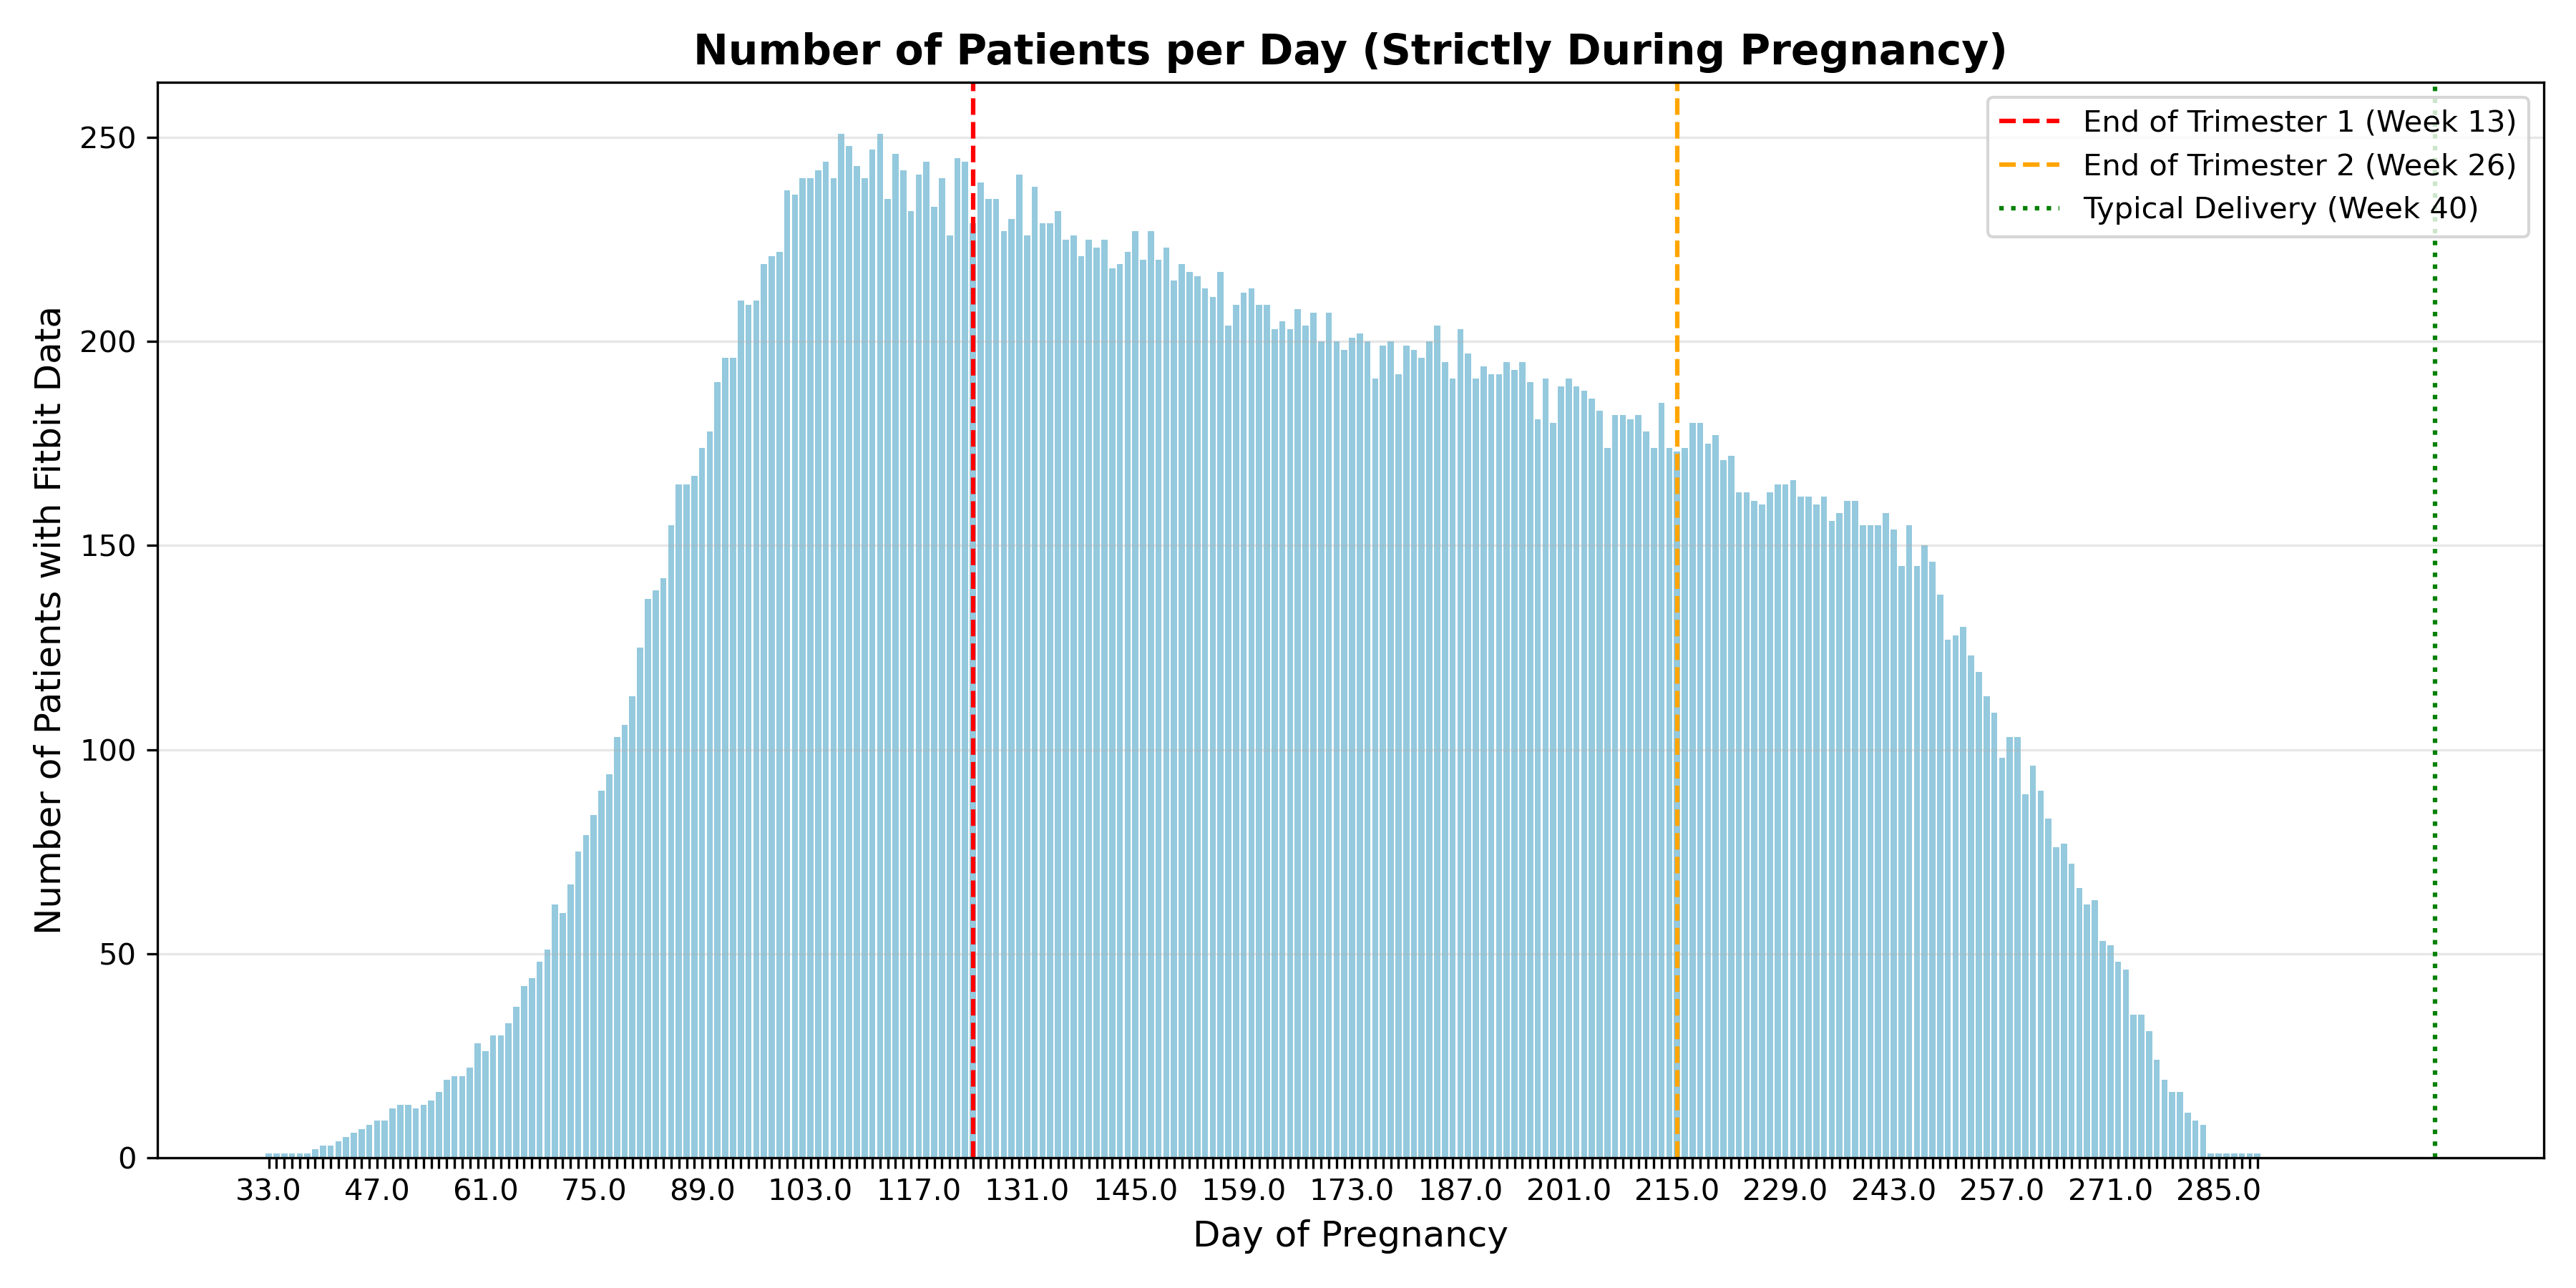
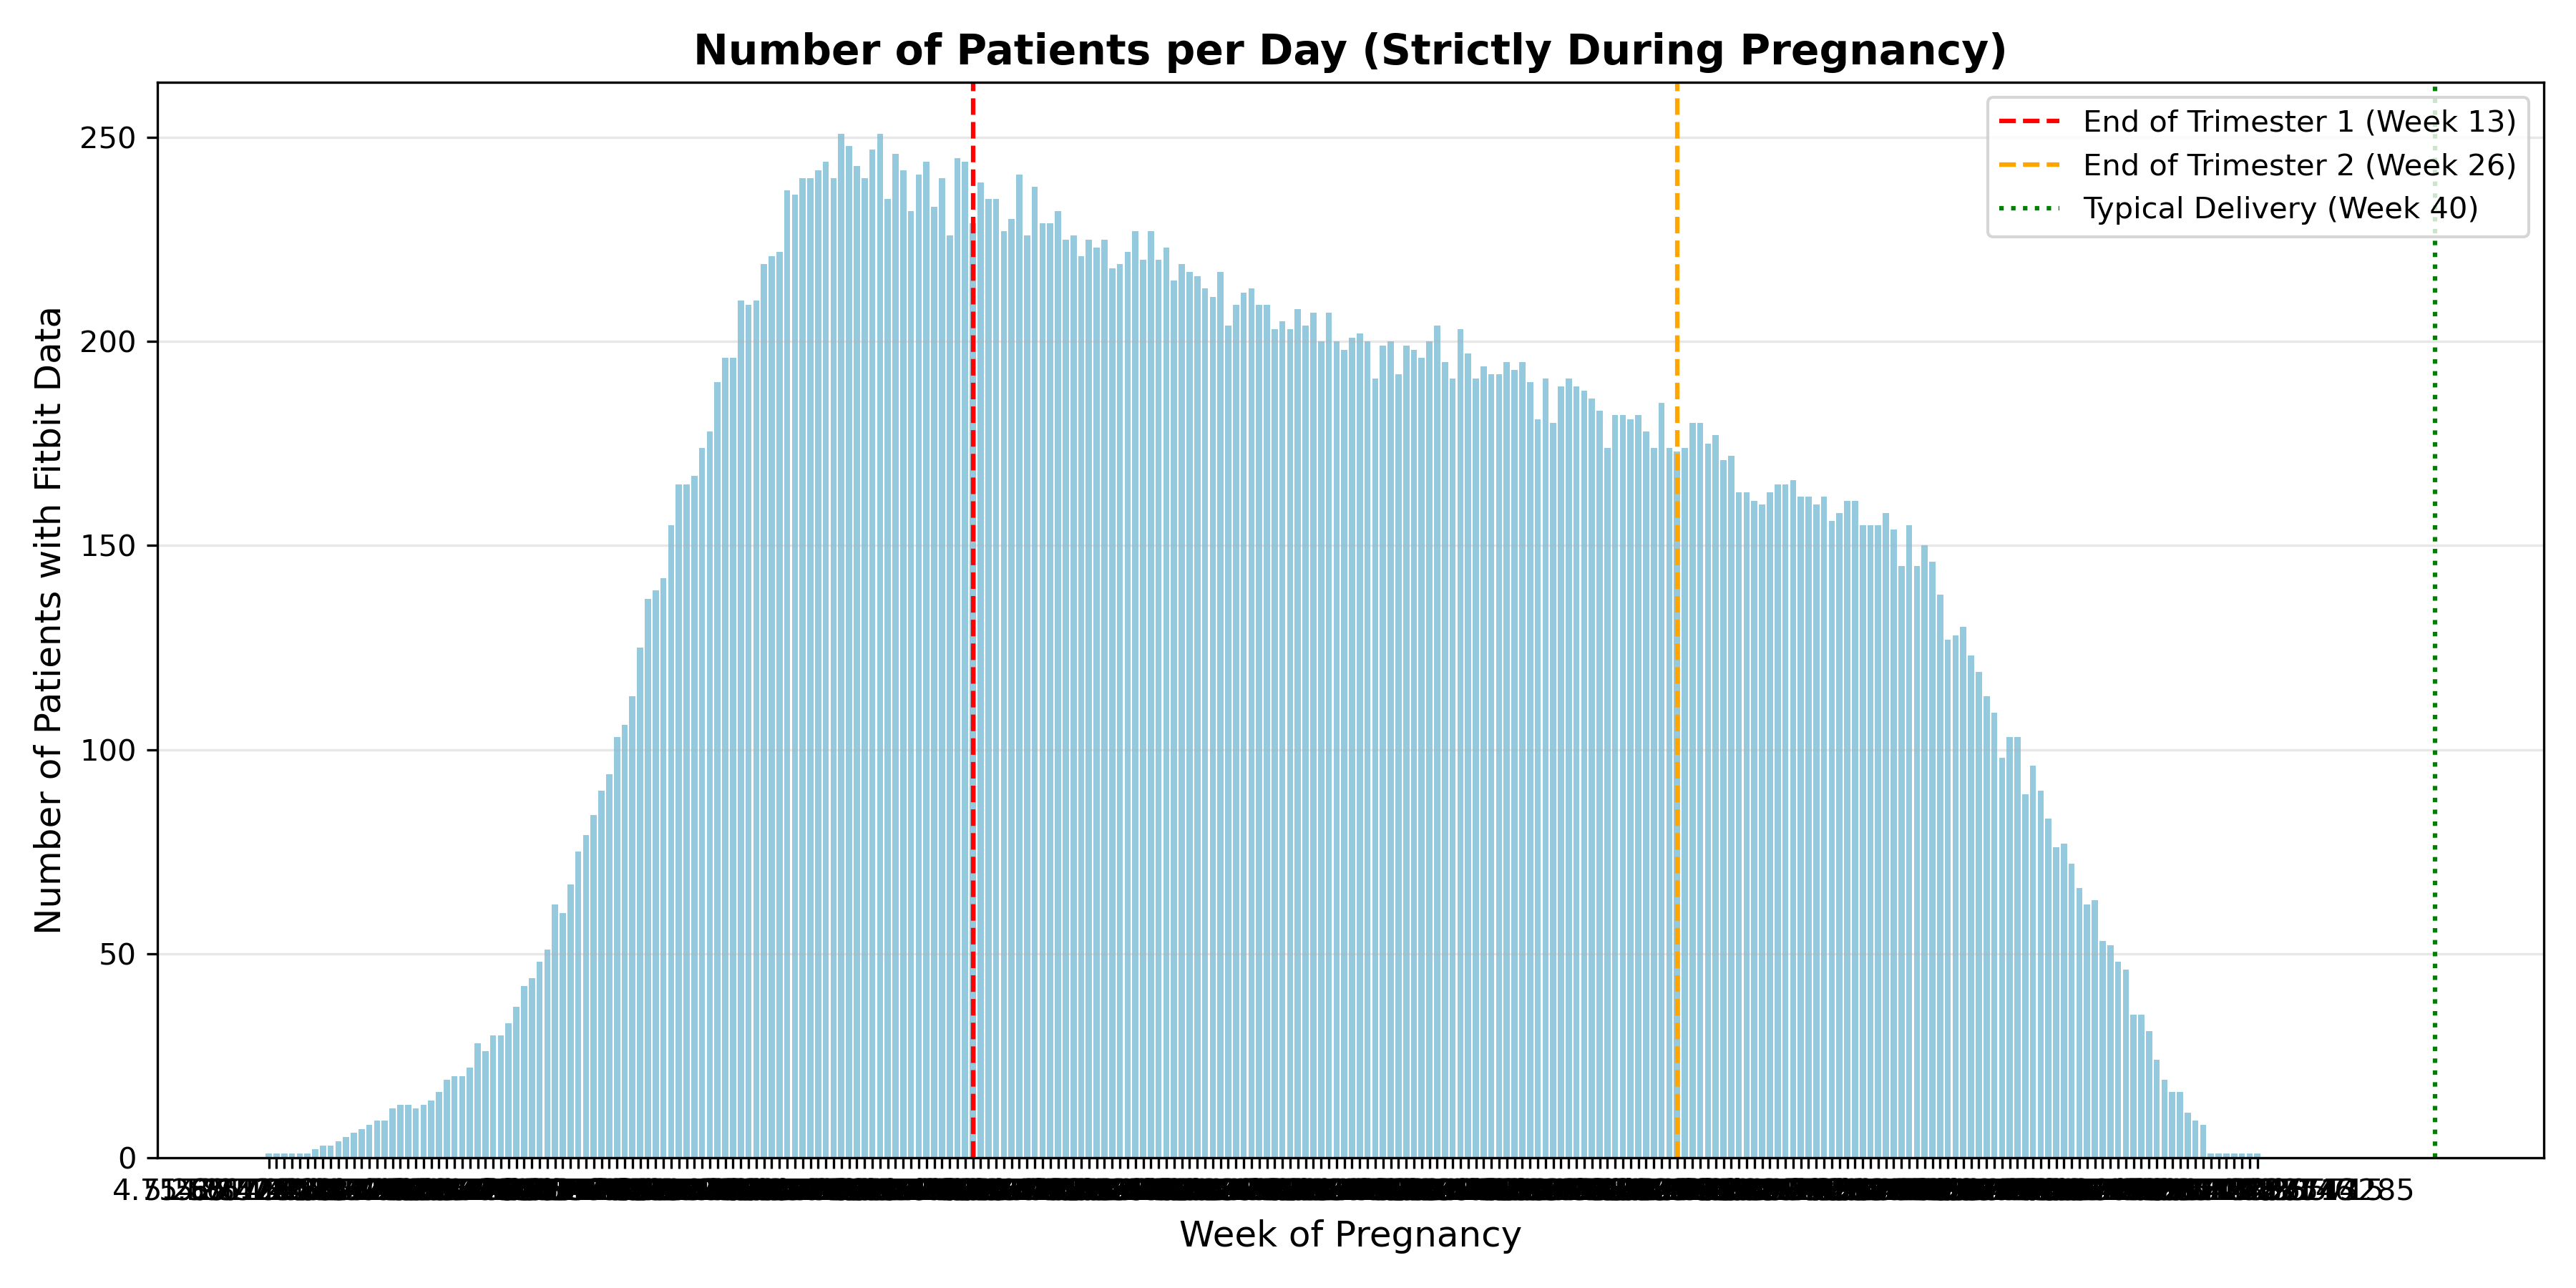
deleted features not present in any patient

Changed region(s): [[0.0311, 0.9022, 0.9333, 0.9956]]

diff --git a/anushas/01_data_cleaning/preprocess_slides_data/preprocess_slides.py b/anushas/01_data_cleaning/preprocess_slides_data/preprocess_slides.py
@@ -62,9 +62,14 @@ def delete_patients(sheet):
     return sheet
 
 # delete the following unnecessary columns: "slide a", "slide b", "slide membrane roll", "not in file"
-# delete the following empty columns:
+# delete all empty columns
 def delete_columns(sheet):
-    sheet = sheet.drop(columns = ["slide a", "slide b", "slide membrane roll", "not in file"])
+    sheet = sheet.drop(columns = [
+        "slide a", "slide b", "slide membrane roll", "not in file", 
+        "retroplacental hemorrhage", "vascular thrombosis", "villous stromal vascular karyorrhexis", "vascular intramural fibrin deposition", 
+        "stem vessel obliteration/fibromuscular sclerosis", "vascular ectasia", "fetal inflammatory response stage/grade/location", "diffuse villous edema", 
+        "placental hypoplasia"
+])
     return sheet
 
 # condition_col represents the column that we are checking the value of (true/false)
@@ -80,10 +85,8 @@ def encode(sheet):
     # encode yes/no to 1/0
     yes_no_mapping = {"yes": 1}
     yes_no_columns = [
-        "placental infarction", "retroplacental hemorrhage", "distal villous hypoplasia focal/diffuse", "accelerated villous maturation", 
-        "increased syncytial knots", "vascular thrombosis", "villous stromal vascular karyorrhexis", "vascular intramural fibrin deposition", 
-        "stem vessel obliteration/fibromuscular sclerosis", "vascular ectasia", "delayed villous maturation", "fetal inflammatory response stage/grade/location", 
-        "diffuse villous edema", "increased perivillous fibrin deposition", "chorangiosis", "placental hypoplasia"
+        "placental infarction", "distal villous hypoplasia focal/diffuse", "accelerated villous maturation", "increased syncytial knots", 
+        "delayed villous maturation", "increased perivillous fibrin deposition", "chorangiosis"
     ]
     sheet[yes_no_columns] = sheet[yes_no_columns].apply(lambda x: x.map(yes_no_mapping))
 
@@ -138,9 +141,16 @@ def print_totals(sheet):
     numeric_cols.remove("gestational age at delivery")
 
     with open(log_path, "w") as f:
+        f.write("This file contains the sum of the values in each column corresponding to a placental histopathology feature.\n\n")
+        f.write("Note that the following columns were dropped from the dataset because these features were not present in any patient:\n")
+        f.write("retroplacental hemorrhage, vascular thrombosis, villous stromal vascular karyorrhexis, vascular intramural fibrin deposition,\n")
+        f.write("stem vessel obliteration/fibromuscular sclerosis, vascular ectasia, fetal inflammatory response stage/grade/location, diffuse villous edema,\n")
+        f.write("and placental hypoplasia.\n\n")
+
         for col in numeric_cols:
             total = sheet[col].sum()
-            f.write(f"{col}: {total}\n")
+            if total != 0:
+                f.write(f"{col}: {total}\n")
 
 def main():
     sheet1, sheet2 = load_sheets()

diff --git a/anushas/02_exploratory_analysis/histogram_patients_per_day/histogram.py b/anushas/02_exploratory_analysis/histogram_patients_per_day/histogram.py
@@ -23,20 +23,20 @@ def prepare_pregnancy_counts(df):
     ]
     df_clean = df_filtered.dropna(subset = data_cols, how = "any").copy()
 
-    df_clean["delivery_day_limit"] = df_clean["gest age del"] * 7
+    df_clean["current_weeks"] = df_clean["timepoint"] / 7
 
     # construct dataset 1: all valid Fitbit updates
     all_data_counts = (
-        df_clean.groupby("timepoint")["Record.ID"]
+        df_clean.groupby("current_weeks")["Record.ID"]
         .nunique()
         .reset_index(name = "patient_count")
     )
 
     # construct dataset 2: pregnancy only (stop counting datapoints past delivery)
-    pregnancy_only_df = df_clean[df_clean["timepoint"] <= df_clean["delivery_day_limit"]]
+    pregnancy_only_df = df_clean[df_clean["current_weeks"] <= df_clean["gest age del"]]
 
     pregnancy_counts = (
-        pregnancy_only_df.groupby("timepoint")["Record.ID"]
+        pregnancy_only_df.groupby("current_weeks")["Record.ID"]
         .nunique()
         .reset_index(name = "patient_count")
     )
@@ -50,7 +50,7 @@ def make_histograms(all_data, pregnancy_data):
         plt.figure(figsize = (12, 6))
 
         # plot the data
-        sns.barplot(data = data, x = "timepoint", y = "patient_count", color = "skyblue")
+        sns.barplot(data = data, x = "current_weeks", y = "patient_count", color = "skyblue")
 
         # add trimester lines
         plt.axvline(x = 91, color = "red", linestyle = "--", linewidth = 1.5, label = "End of Trimester 1 (Week 13)")
@@ -60,11 +60,11 @@ def make_histograms(all_data, pregnancy_data):
         # clean up x-axis ticks by only making them visible every 2 weeks
         ax = plt.gca()
         for ind, label in enumerate(ax.get_xticklabels()):
-            if ind % 14 != 0:
+            if ind % 2 != 0:
                 label.set_visible(False)
 
         plt.title(title, fontsize = 14, fontweight = "bold")
-        plt.xlabel("Day of Pregnancy", fontsize = 12)
+        plt.xlabel("Week of Pregnancy", fontsize = 12)
         plt.ylabel("Number of Patients with Fitbit Data", fontsize = 12)
         plt.legend(loc = "upper right")
         plt.grid(axis = "y", alpha = 0.3)